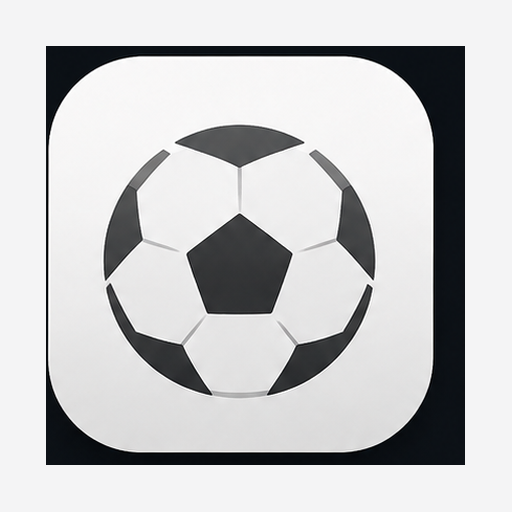
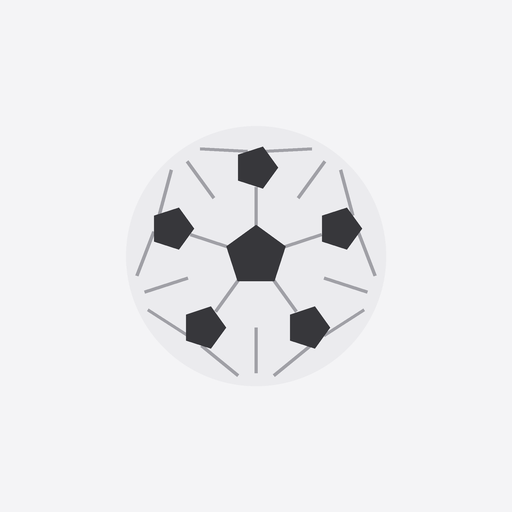
Asta Live Manager v30.1

diff --git a/service-worker.js b/service-worker.js
@@ -1,4 +1,4 @@
-const CACHE_NAME = 'fantacalcio-checklist-v30';
+const CACHE_NAME = 'fantacalcio-checklist-v30.1';
 const APP_SHELL = [
   './',
   './index.html',

diff --git a/tests/V30.1-ACCEPTANCE.md b/tests/V30.1-ACCEPTANCE.md
@@ -1,0 +1,5 @@
+# v30.1 acceptance
+- Icon assets are regenerated from a clean square canvas, not cropped from the proposal board.
+- PNG assets use a full opaque light-gray background; all four corners match exactly.
+- Regular, Apple touch, favicon and maskable assets use the minimal geometric football concept.
+- Functional UI/code remains unchanged from v30 except the service-worker cache key.
